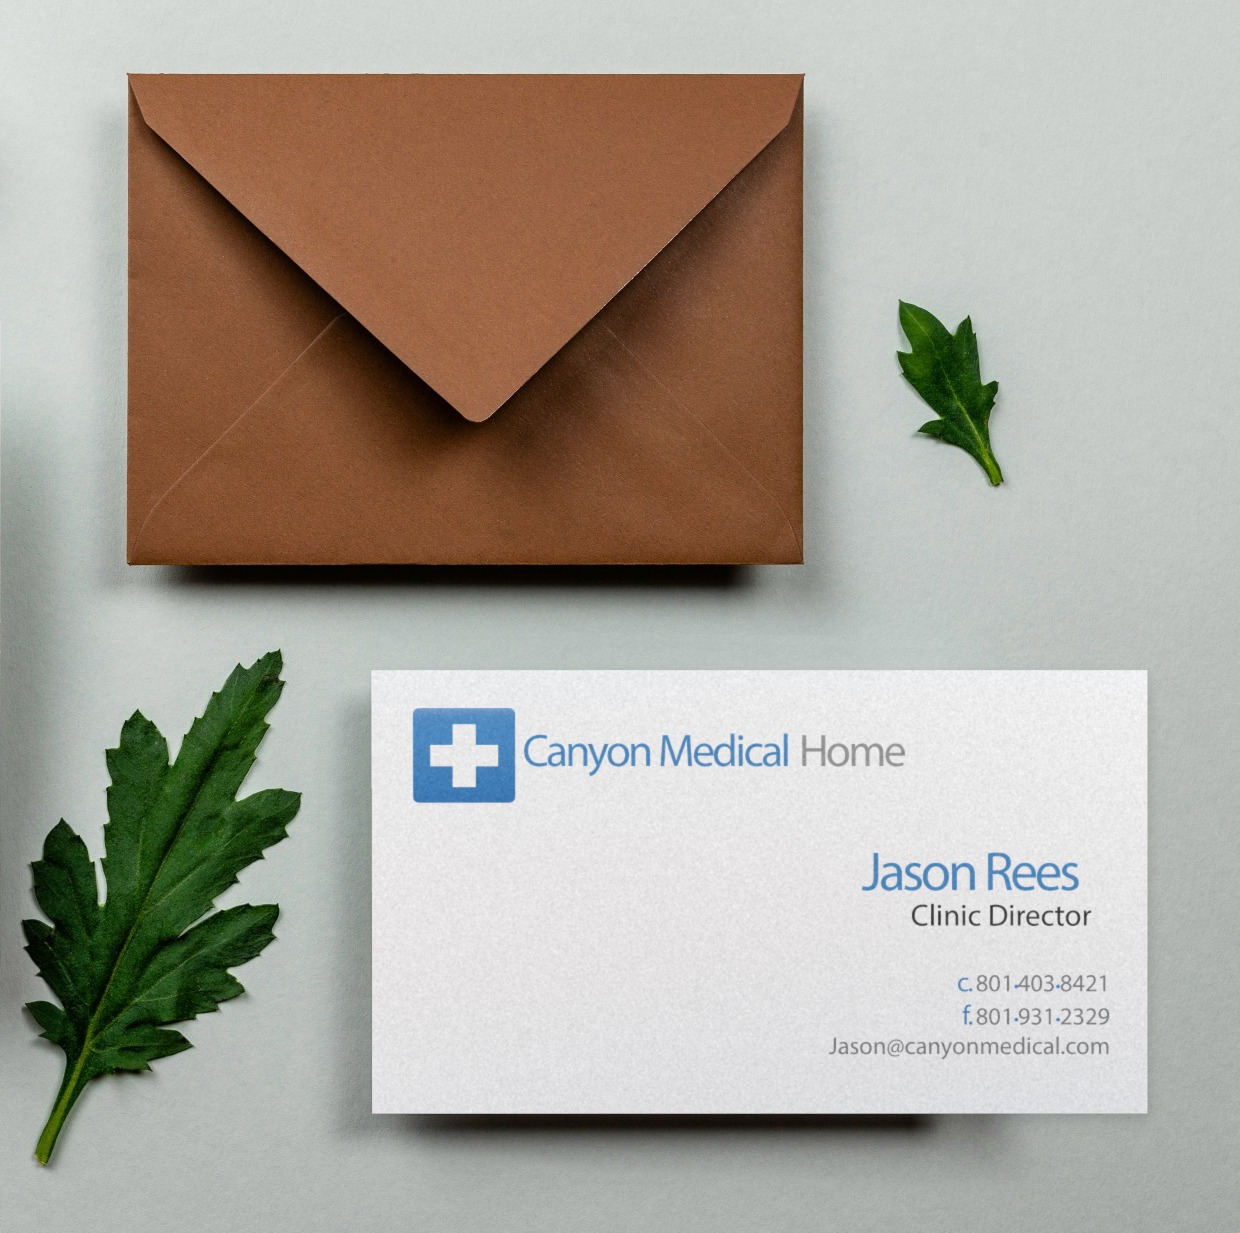
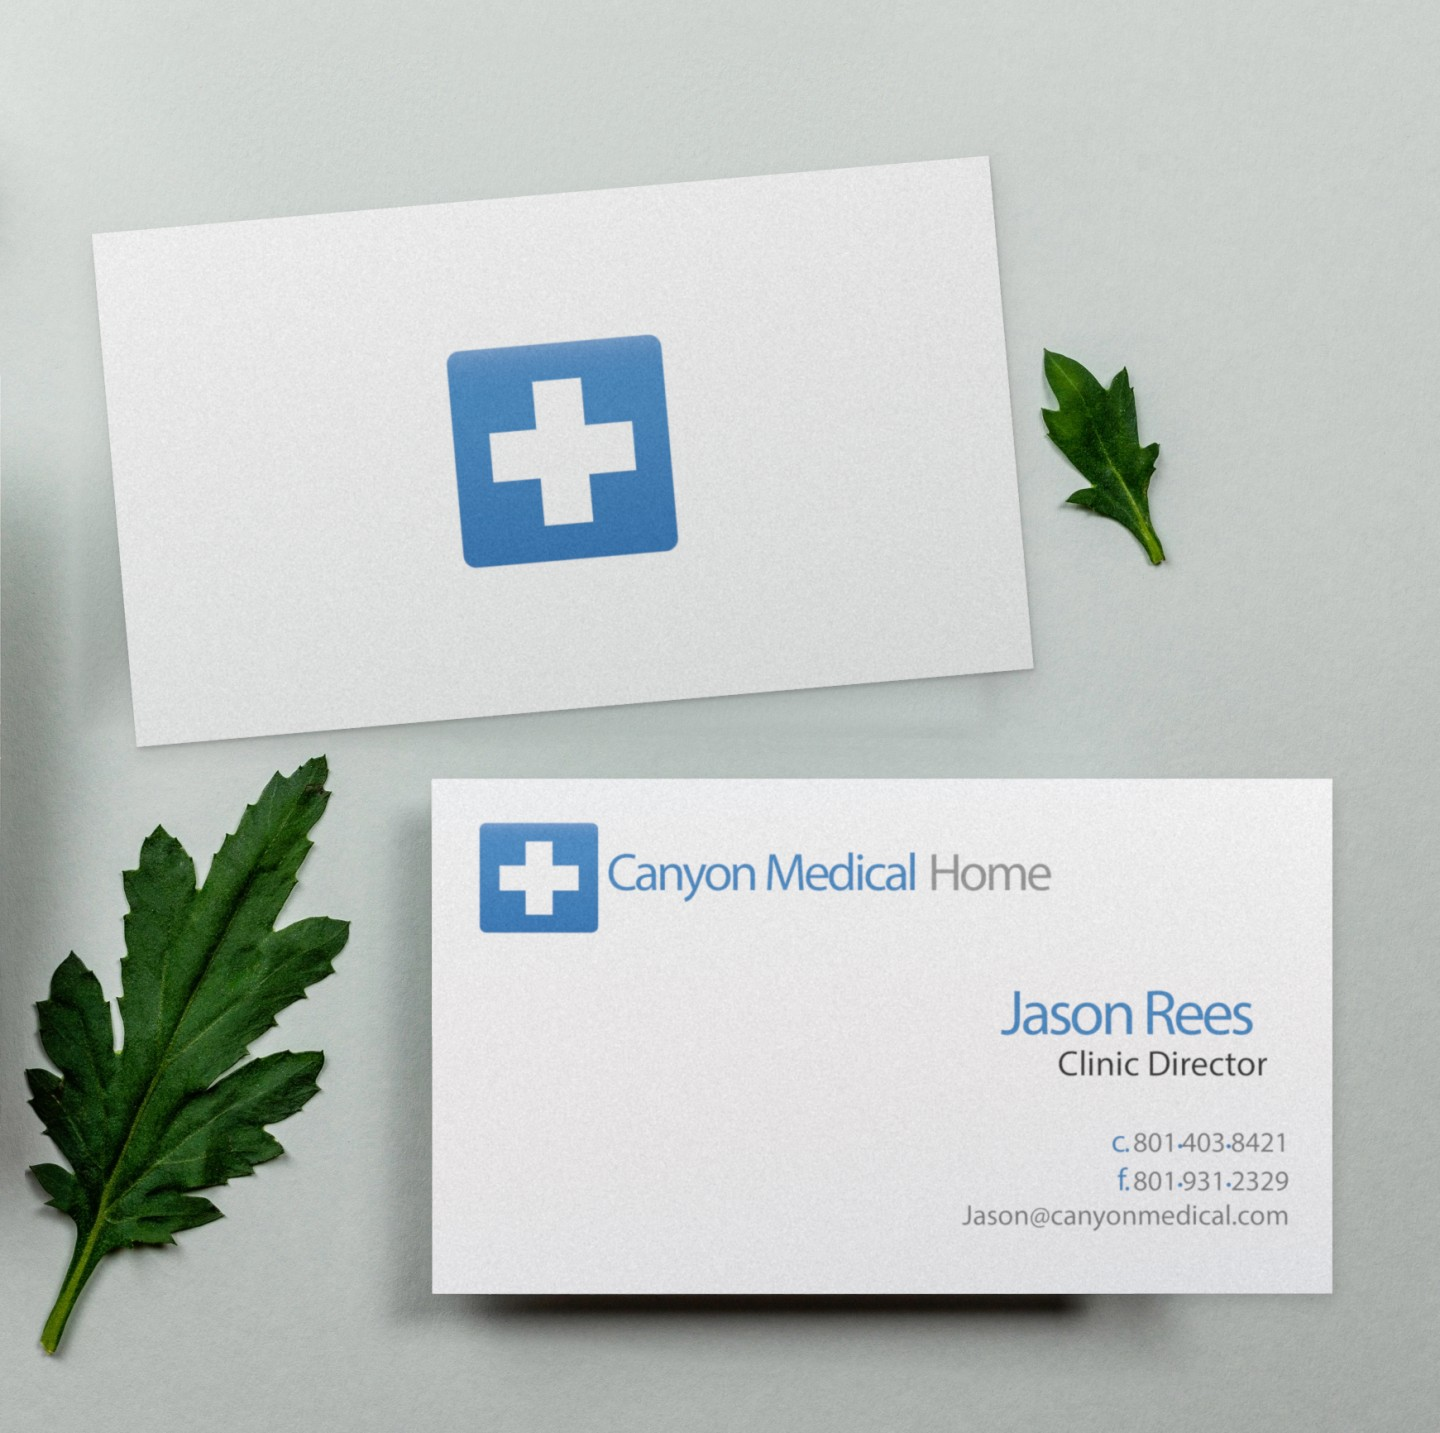
Replace four business-card mockups and retire the AI mockups
Stanley flagged the business-card images. Brand Designer's fixed
renders replace DeSpain, Carvit surf, Canyon Medical and Millcreek
(same file names, new alt text describing what each now shows; Canyon
Medical keeps its bottom crop). The homepage hero still crops DeSpain at
42% 58%, which keeps both logos in frame at 1440 and 390.

All eight AI mockups go, with their image files: Prestige Performance
black and white, Moto-Skiveez, Carvit rounded corners, the RUST sticker
and labels, and both Oakridge Dental folders. Their type was garbled and
their lines wobbled, which a printer selling precision can't show.
Every product page still has real images. Nothing uses 'ai-mockup'
any more, so it leaves PortfolioItem's kind, imagesForProduct no longer
sorts by kind, and the tests that guarded the AI ordering are gone.

Changed region(s): [[0.0613, 0.0616, 0.7048, 0.5239]]

diff --git a/src/data/portfolio.ts b/src/data/portfolio.ts
@@ -1,14 +1,13 @@
 /**
- * DYJK's work: photos of past print jobs, mockups built from DYJK's real
- * print files, and AI mockups of customers' designs. Product pages show every
- * kind for their product, real artwork first; the /portfolio/ gallery and the
- * homepage "Recent work" strip show PORTFOLIO_GALLERY.
+ * DYJK's work: photos of past print jobs and mockups built from DYJK's real
+ * print files. Product pages show every piece for their product; the
+ * /portfolio/ gallery and the homepage "Recent work" strip show
+ * PORTFOLIO_GALLERY.
  *
  * To add a piece: save the original image in src/assets/portfolio/, import it
  * below and add one entry with its product slug and kind. Entries are in
- * display order: a product page lists its real artwork in the order below,
- * then its AI mockups, and its first image is the thumbnail on the /products/
- * hub card. Gallery photos go newest first; the homepage shows the first two.
+ * display order: a product page lists its pieces in the order below, and its
+ * first image is the thumbnail on the /products/ hub card. Gallery photos go newest first; the homepage shows the first two.
  * Astro generates the responsive AVIF/WebP sizes at build time. Product pages
  * crop every thumbnail to 3:2 (set cropPosition if the subject isn't central)
  * and link to the full image.
@@ -23,13 +22,9 @@ import brochureBagelShop from '../assets/portfolio/brochures-bagel-shop-menu.jpg
 import brochureSunTree from '../assets/portfolio/brochures-sun-tree-hospice.jpg';
 import cardsAveron from '../assets/portfolio/business-cards-averon-group.jpg';
 import cardsCanyonMedical from '../assets/portfolio/business-cards-canyon-medical.jpg';
-import cardsCarvit from '../assets/portfolio/business-cards-carvit-rounded-corners.jpg';
 import cardsCarvitSurf from '../assets/portfolio/business-cards-carvit-surf.jpg';
 import cardsDespain from '../assets/portfolio/business-cards-despain-subaru.jpg';
 import cardsMillcreek from '../assets/portfolio/business-cards-millcreek.jpg';
-import cardsMotoSkiveez from '../assets/portfolio/business-cards-moto-skiveez-carbon-pattern.jpg';
-import cardsPrestigeBlack from '../assets/portfolio/business-cards-prestige-performance-black.jpg';
-import cardsPrestigeWhite from '../assets/portfolio/business-cards-prestige-performance-white.jpg';
 import doorHangerCleanItUp from '../assets/portfolio/door-hangers-clean-it-up.jpg';
 import doorHangerMikeGreen from '../assets/portfolio/door-hangers-mike-green-campaign.jpg';
 import envelopesApexAdvance from '../assets/portfolio/envelopes-letterhead-apex-advance-envelopes.jpg';
@@ -41,17 +36,13 @@ import flyerAspire from '../assets/portfolio/flyers-aspire-surgical.jpg';
 import flyerAutoShow from '../assets/portfolio/flyers-atomic-auto-show.jpg';
 import flyerUew from '../assets/portfolio/flyers-united-energy-workers.jpg';
 import labelsCuttingEdge from '../assets/portfolio/labels-cutting-edge-box.jpg';
-import labelsRust from '../assets/portfolio/labels-rust-automation-roll-desk.jpg';
 import menuBagelShop from '../assets/portfolio/menus-bagel-shop.jpg';
 import postcardAspire from '../assets/portfolio/postcards-aspire-invitation.jpg';
 import postcardWaterSensations from '../assets/portfolio/postcards-water-sensations.jpg';
-import foldersOakridge from '../assets/portfolio/presentation-folders-oakridge-dental.jpg';
-import foldersOakridgeFanned from '../assets/portfolio/presentation-folders-oakridge-dental-fanned.jpg';
 import presentationFolder from '../assets/portfolio/presentation-folder-and-insert.jpg';
 import promotionalCards from '../assets/portfolio/promotional-cards.jpg';
 import stickersAssorted from '../assets/portfolio/stickers-assorted-logos.jpg';
 import stickerGlobeCandy from '../assets/portfolio/stickers-globe-candy.jpg';
-import stickerRust from '../assets/portfolio/stickers-rust-automation-oval-bottle.jpg';
 
 export interface PortfolioItem {
   image: ImageMetadata;
@@ -63,10 +54,9 @@ export interface PortfolioItem {
   serviceSlug: string;
   /**
    * 'photo': a photo of a finished job. 'mockup': a rendering built from
-   * DYJK's real print file, so every word is exact. 'ai-mockup': an AI
-   * rendering of a customer design; shown last and due to be retired.
+   * DYJK's real print file, so every word is exact.
    */
-  kind: 'photo' | 'mockup' | 'ai-mockup';
+  kind: 'photo' | 'mockup';
   /** Anchor for the 3:2 product-page crop; centered when unset. */
   cropPosition?: 'top' | 'bottom' | 'left' | 'right' | 'attention';
   /** Describes the printed piece for screen readers. */
@@ -88,7 +78,7 @@ export const PORTFOLIO: ReadonlyArray<PortfolioItem> = [
     product: 'business-cards',
     serviceSlug: 'digital-printing',
     kind: 'mockup',
-    alt: 'DeSpain The Subaru Specialist business cards: two black cards with a blue and gray star logo in front of a stack showing the engine illustration on the back.',
+    alt: "DeSpain The Subaru Specialist business cards on a light gray table: two black cards side by side, each with a silver star and blue swoosh logo, in front of a stack whose top card shows the blue DeSpain name, an engine illustration and 'The Subaru Specialist'.",
   },
   {
     image: cardsCanyonMedical,
@@ -97,7 +87,7 @@ export const PORTFOLIO: ReadonlyArray<PortfolioItem> = [
     serviceSlug: 'digital-printing',
     kind: 'mockup',
     cropPosition: 'bottom',
-    alt: 'Canyon Medical Home business card with a blue cross logo, a name, title and contact details, beside a brown envelope and green leaves.',
+    alt: 'Two Canyon Medical Home business cards on a pale gray-green surface beside two green leaves: one shows a blue square with a white cross; the other shows the logo, Jason Rees, Clinic Director, and phone, fax and email details.',
   },
   {
     image: cardsCarvitSurf,
@@ -105,7 +95,7 @@ export const PORTFOLIO: ReadonlyArray<PortfolioItem> = [
     product: 'business-cards',
     serviceSlug: 'digital-printing',
     kind: 'mockup',
-    alt: 'Two Carvit promo cards with an edge-to-edge photo of a surfer in a breaking wave, reading "A lifestyle, shop now" and the web address, on white paper by a cream envelope.',
+    alt: "Two Carvit promo cards on a plain gray surface, each with an edge-to-edge photo of a surfer in a breaking wave, the Carvit logo, and 'A lifestyle, shop now' with the web address.",
   },
   {
     image: cardsMillcreek,
@@ -113,7 +103,7 @@ export const PORTFOLIO: ReadonlyArray<PortfolioItem> = [
     product: 'business-cards',
     serviceSlug: 'digital-printing',
     kind: 'mockup',
-    alt: 'Two white Millcreek Tile & Stone business cards on a gray stone surface: one with the logo and contact details, the other with the copper-colored tile logo and web address.',
+    alt: 'Two white Millcreek Tile & Stone business cards on gray marble: one with the logo, street address, phone numbers and email, partly covered by the other, which shows the copper-colored tile logo and web address.',
   },
   {
     image: postcardWaterSensations,
@@ -270,70 +260,6 @@ export const PORTFOLIO: ReadonlyArray<PortfolioItem> = [
     alt: 'The Bagel Shop tri-fold brochure open to three panels of menu items and prices with food photos, partly covered by its chalkboard-style front panel, on a light wooden surface.',
   },
   {
-    image: cardsPrestigeBlack,
-    title: 'Black business cards with a gold logo',
-    product: 'business-cards',
-    serviceSlug: 'digital-printing',
-    kind: 'ai-mockup',
-    alt: 'Black Prestige Performance business card with a gold logo and web address, lying on a light stone surface.',
-  },
-  {
-    image: cardsMotoSkiveez,
-    title: 'Business cards with a carbon-fiber pattern',
-    product: 'business-cards',
-    serviceSlug: 'digital-printing',
-    kind: 'ai-mockup',
-    alt: 'Stack of dark Moto-Skiveez business cards with a carbon-fiber pattern and a red, blue and gray logo, on a wooden desk beside a pen.',
-  },
-  {
-    image: cardsCarvit,
-    title: 'Promo cards with rounded corners',
-    product: 'business-cards',
-    serviceSlug: 'digital-printing',
-    kind: 'ai-mockup',
-    alt: 'Carvit promo card with rounded corners and an action-sports photo collage, reading "Shop now" with a promo code, propped on a stack of matching cards.',
-  },
-  {
-    image: cardsPrestigeWhite,
-    title: 'White business cards with a black logo',
-    product: 'business-cards',
-    serviceSlug: 'digital-printing',
-    kind: 'ai-mockup',
-    alt: 'White Prestige Performance business cards on a marble surface: one with a large black monogram, one with contact details, and a stack beside them.',
-  },
-  {
-    image: foldersOakridgeFanned,
-    title: 'Presentation folders, fanned out',
-    product: 'presentation-folders',
-    serviceSlug: 'offset-printing',
-    kind: 'ai-mockup',
-    alt: 'White Oakridge Dental presentation folders fanned out on a wooden desk, the top one showing the logo.',
-  },
-  {
-    image: foldersOakridge,
-    title: 'Presentation folder with a centered logo',
-    product: 'presentation-folders',
-    serviceSlug: 'offset-printing',
-    kind: 'ai-mockup',
-    alt: 'White Oakridge Dental presentation folder with the logo centered on the cover, on a dark wooden desk.',
-  },
-  {
-    image: labelsRust,
-    title: 'Round labels on a roll, one peeled from its backing',
-    product: 'labels',
-    serviceSlug: 'digital-printing',
-    kind: 'ai-mockup',
-    alt: 'Roll of round RUST Automation & Controls labels on a desk, with the label applied to paper bags and a box and one label peeled from its backing.',
-  },
-  {
-    image: stickerRust,
-    title: 'Oval logo sticker on a water bottle',
-    product: 'stickers',
-    serviceSlug: 'digital-printing',
-    kind: 'ai-mockup',
-    alt: 'Oval blue RUST Automation & Controls sticker with an oil-derrick logo on a metal water bottle.',
-  },
-  {
     image: presentationFolder,
     title: 'Presentation folder & insert',
     product: 'presentation-folders',
@@ -377,9 +303,9 @@ export interface HeroTile {
 }
 
 /**
- * The homepage hero mosaic (web-refresh SPEC.md): DYJK's real print files,
- * never AI mockups. Phones show the first three; HeroMosaic.astro places
- * the five on larger screens.
+ * The homepage hero mosaic (web-refresh SPEC.md): DYJK's real print files.
+ * Phones show the first three; HomeHero.astro places the five on larger
+ * screens.
  */
 export const HERO_TILES: ReadonlyArray<HeroTile> = [
   {
@@ -413,16 +339,9 @@ export function relatedService(item: PortfolioItem): ServiceItem {
   return service;
 }
 
-/**
- * Images for one product page: real artwork (photos and mockups) first, then
- * AI mockups, each group newest first.
- */
+/** Images for one product page, in portfolio order. */
 export function imagesForProduct(slug: string): PortfolioItem[] {
-  const images = PORTFOLIO.filter((item) => item.product === slug);
-  return [
-    ...images.filter((item) => item.kind !== 'ai-mockup'),
-    ...images.filter((item) => item.kind === 'ai-mockup'),
-  ];
+  return PORTFOLIO.filter((item) => item.product === slug);
 }
 
 /**

diff --git a/tests/unit/portfolio.test.ts b/tests/unit/portfolio.test.ts
@@ -43,21 +43,11 @@ describe('relatedService', () => {
 });
 
 describe('imagesForProduct', () => {
-  it("returns that product's pieces of every kind, and none for others", () => {
+  it("returns that product's pieces, and none for others", () => {
     for (const item of PORTFOLIO) {
       expect(imagesForProduct(item.product)).toContain(item);
     }
     expect(imagesForProduct('no-such-product')).toEqual([]);
-  });
-
-  it('puts real artwork before AI mockups', () => {
-    for (const slug of new Set(PORTFOLIO.map((item) => item.product))) {
-      const isAi = imagesForProduct(slug).map(
-        (item) => item.kind === 'ai-mockup',
-      );
-      // false (real) sorts before true (AI).
-      expect(isAi, slug).toEqual([...isAi].sort());
-    }
   });
 });
 
@@ -88,16 +78,8 @@ describe('assertKnownProducts', () => {
 });
 
 describe('HERO_TILES', () => {
-  it('shows only real print work, never an AI mockup', () => {
+  it('shows five different pieces', () => {
     expect(HERO_TILES).toHaveLength(5);
-    for (const { item } of HERO_TILES) {
-      expect(['photo', 'mockup'], item.title).toContain(item.kind);
-    }
-  });
-
-  it('uses each piece once', () => {
-    expect(new Set(HERO_TILES.map(({ item }) => item)).size).toBe(
-      HERO_TILES.length,
-    );
+    expect(new Set(HERO_TILES.map(({ item }) => item)).size).toBe(5);
   });
 });
